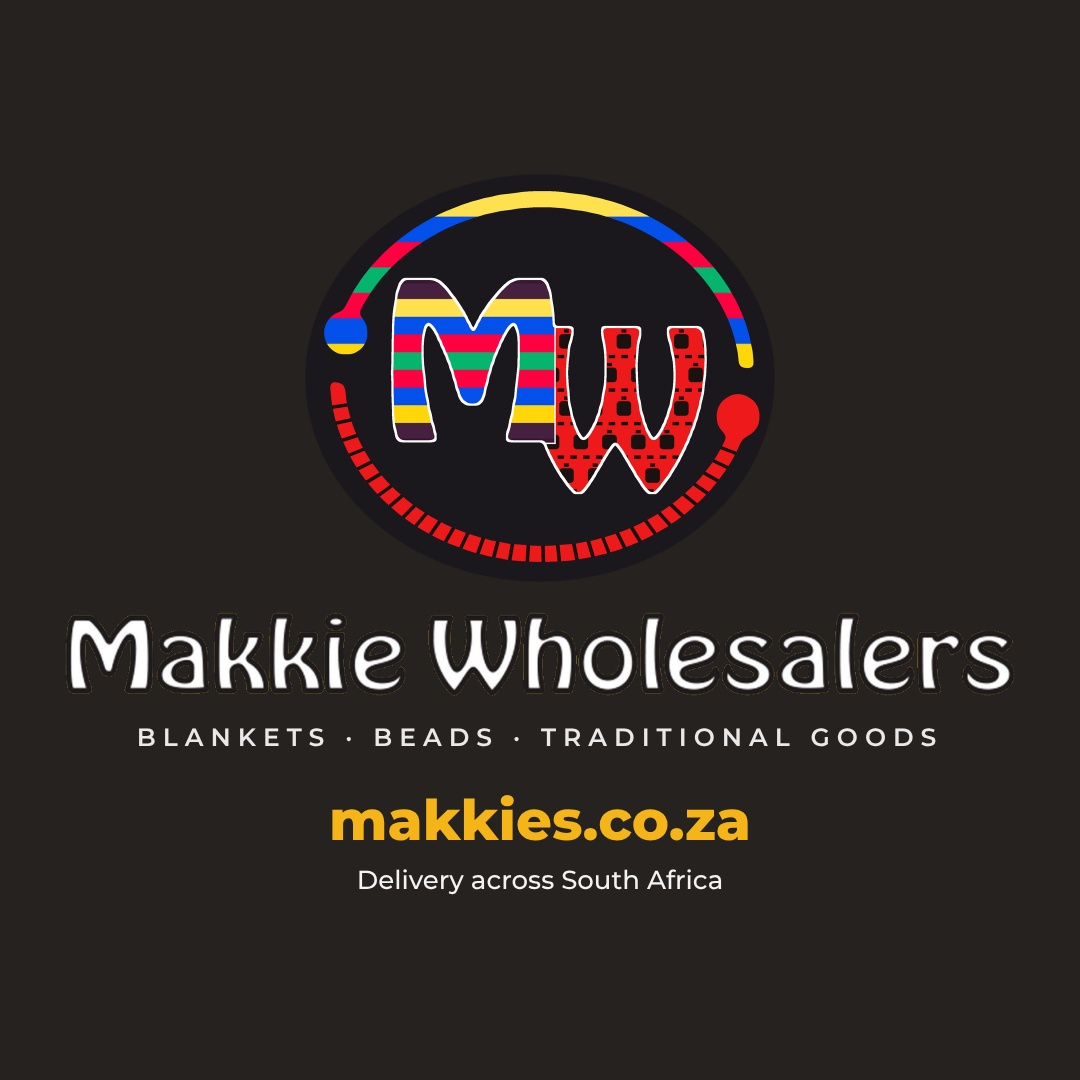
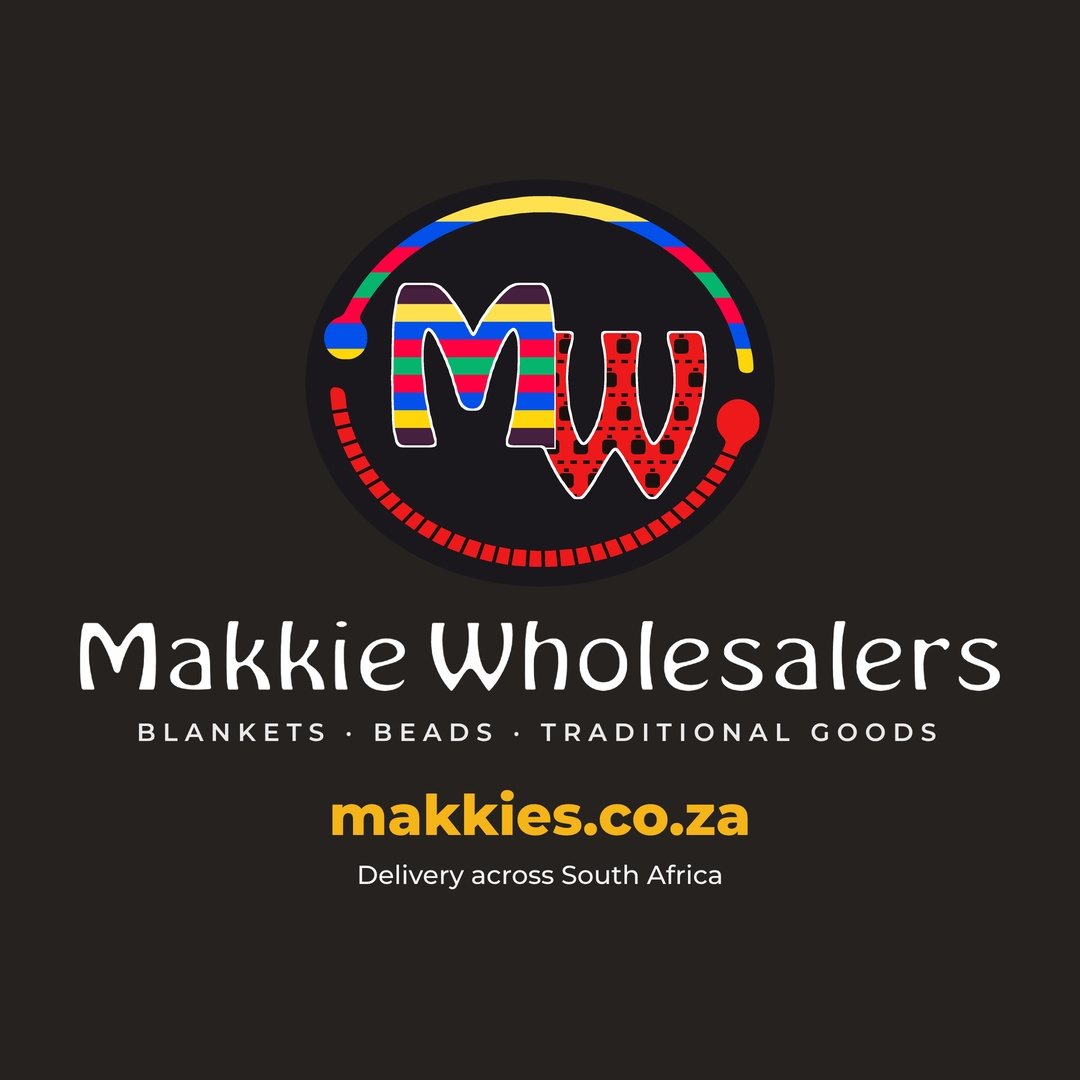
Profile picture in high resolution (2160x2160) with sharp lettering
Claude-Session: https://claude.ai/code/session_01FrAdmZhbnvV2Pi8Ea2YxmY

diff --git a/marketing/profile-picture/dp.html b/marketing/profile-picture/dp.html
@@ -4,14 +4,14 @@
 body{width:1080px;height:1080px;background:#262220;display:flex;align-items:center;justify-content:center}
 .c{width:1080px;height:1080px;display:flex;flex-direction:column;align-items:center;justify-content:center;color:#fff;text-align:center}
 .em{width:470px;display:block;margin-top:-10px}
-.nm2{display:flex;align-items:flex-end;gap:22px;margin-top:30px}.nm2 img{height:84px;width:auto;display:block}
+.nm2{display:flex;align-items:flex-end;gap:26px;margin-top:34px}.nm2 img{height:70px;width:auto;display:block}
 .nm{font-family:'DMSerif',serif;font-size:92px;line-height:1;margin-top:26px;letter-spacing:.5px}
 .tg{font-family:'Montserrat',sans-serif;font-weight:600;font-size:25px;letter-spacing:7px;margin-top:26px;opacity:.9}
 .url{font-family:'Montserrat',sans-serif;font-weight:800;font-size:56px;color:#F5B417;margin-top:34px}
 .del{font-family:'Montserrat',sans-serif;font-weight:500;font-size:26px;margin-top:10px;opacity:.95}
 </style></head><body><div class="c">
 <img class="em" src="emblem2x.png">
-<div class="nm2"><img src="w_makkie_c.png" class="wm"><img src="w_wholesalers_c.png" class="ww"></div>
+<div class="nm2"><img src="w_makkie_hi.png" class="wm"><img src="w_wholesalers_hi.png" class="ww"></div>
 <div class="tg">BLANKETS · BEADS · TRADITIONAL GOODS</div>
 <div class="url">makkies.co.za</div>
 <div class="del">Delivery across South Africa</div>
